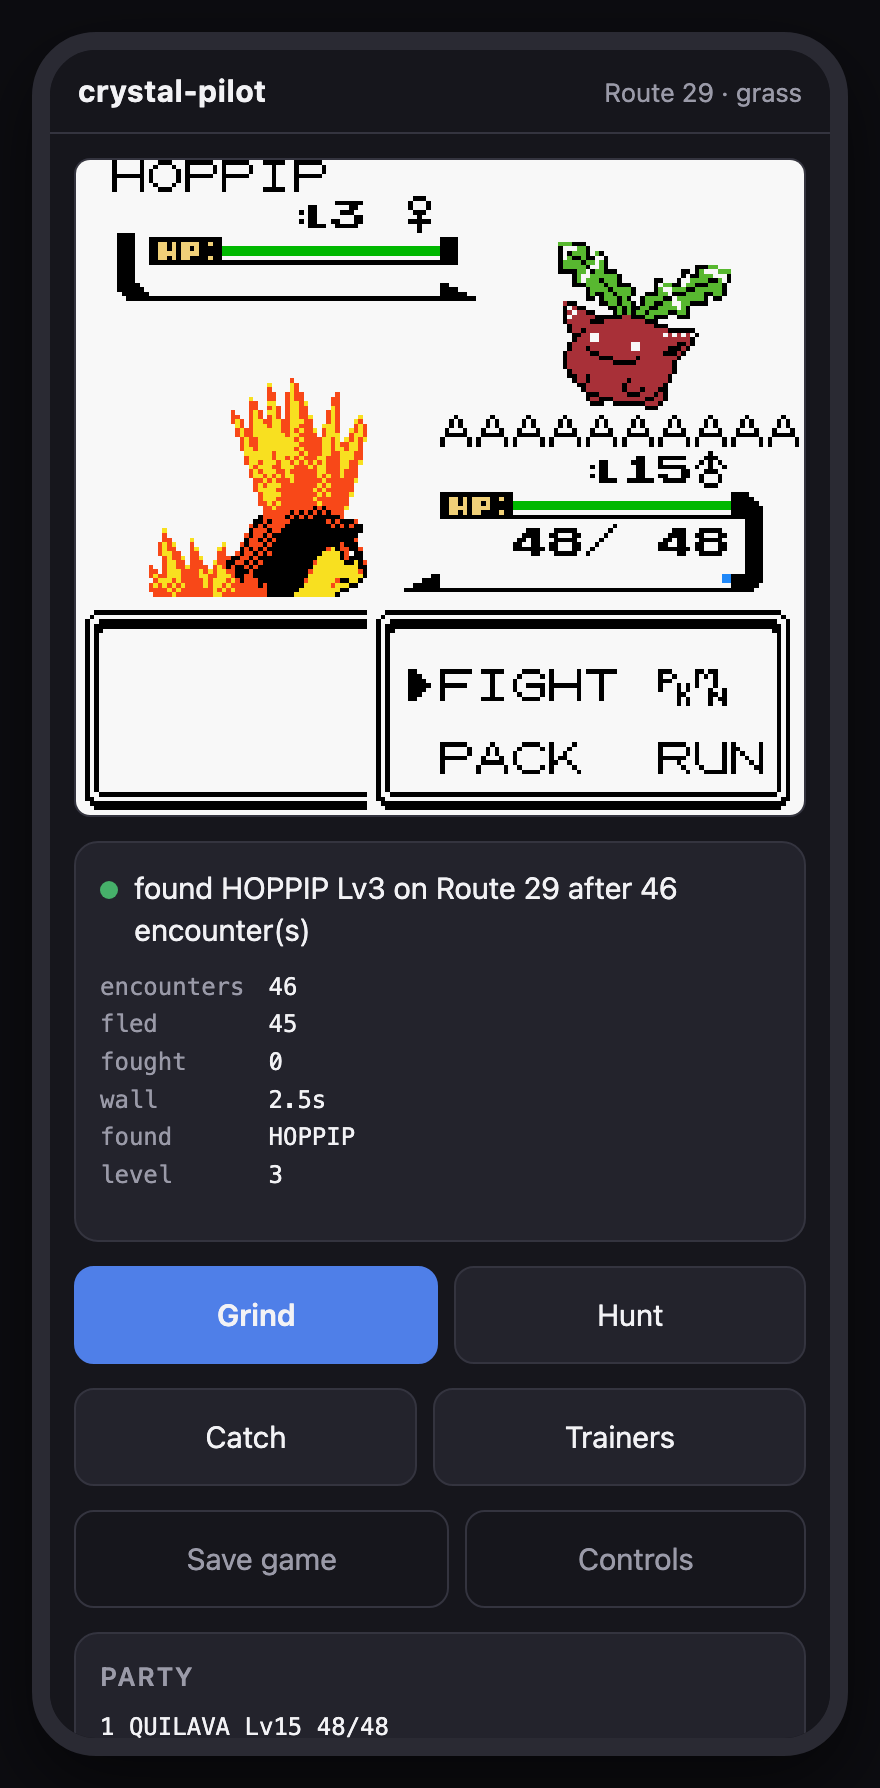
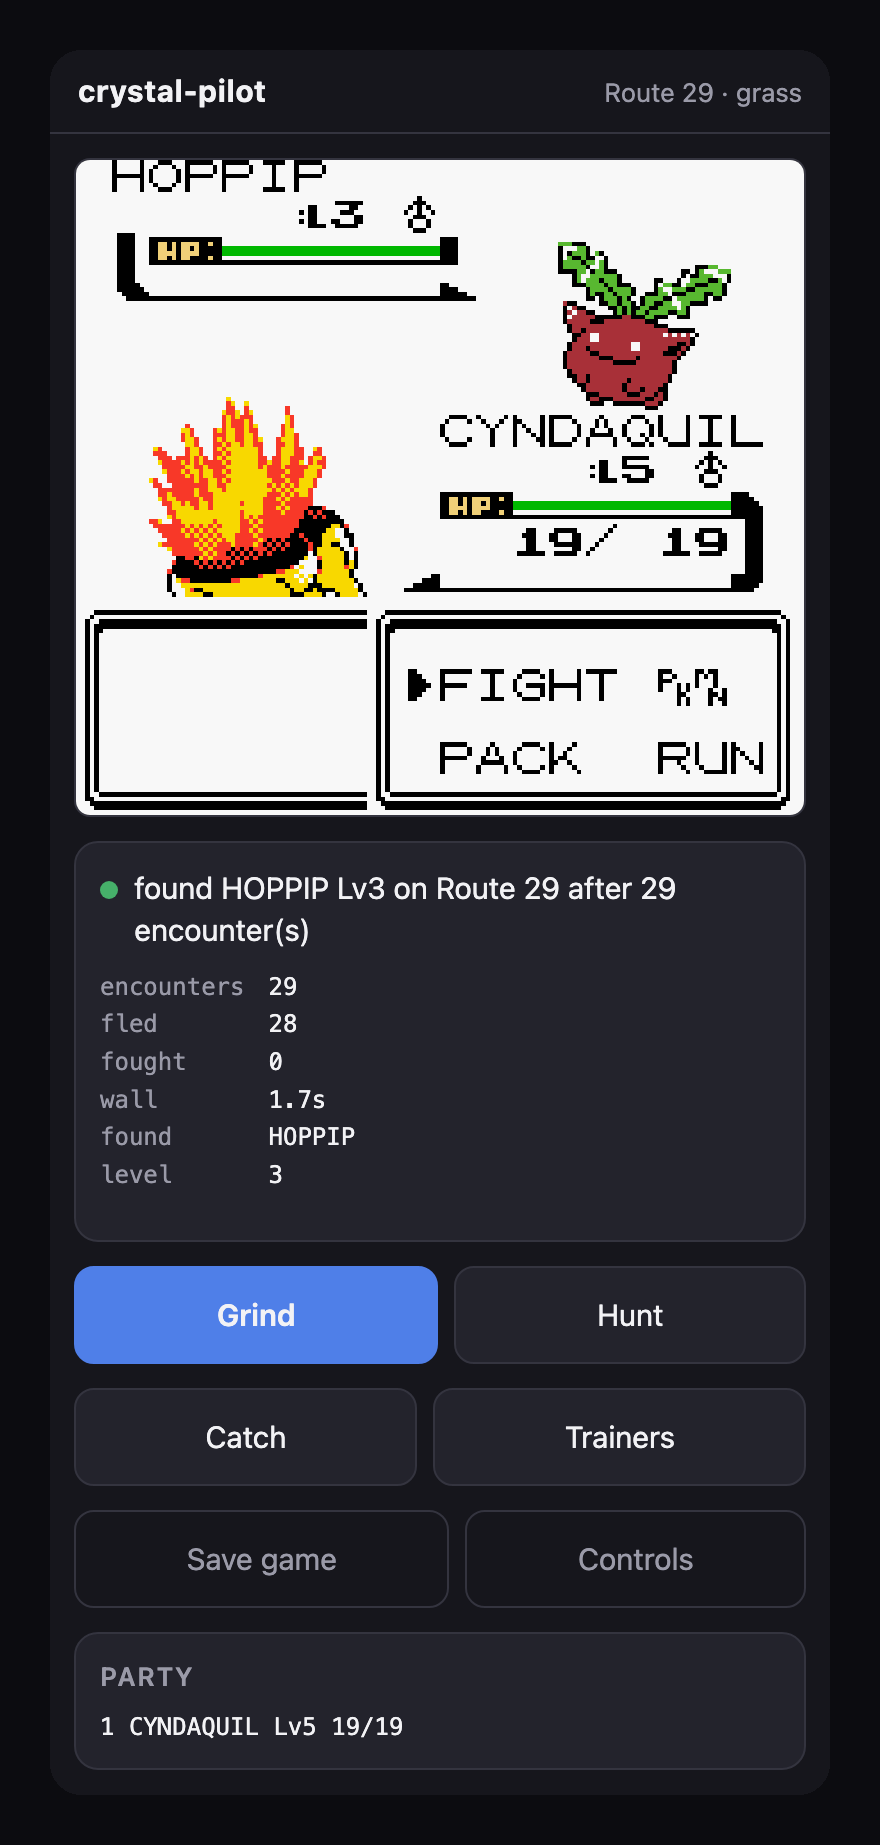
README: new controls screenshot, and retire a stale one
The web UI screenshot showed a party member called AAAAAAAAAAA -- the naming
bug fixed a few commits ago -- so it documented behaviour the code no longer
has. Replaced with a real capture of the same situation the caption describes:
a hunt that has just found a HOPPIP and left the battle live, with the starter
correctly called CYNDAQUIL.

Added a screenshot of the controls themselves, taken by driving the real page
headlessly through a same-origin proxy, so the lit key is LEFT genuinely held
rather than a class added for the photo.

Test numbers were stale: 71 now, 55 of which need a ROM. And the self-check is
8 of 8 after dropping the blind-A-tap mutation, with the reason recorded next to
the list: rebuilding the fixtures moved the RNG out from under it. The guard it
targeted stays; the claim that the suite proves it does not.

diff --git a/tests/selfcheck.py b/tests/selfcheck.py
@@ -18,6 +18,14 @@ ROOT = Path(__file__).resolve().parent.parent
 # (label, file, find, replace, test-filter)
 # `find` must appear exactly once, so a mutation cannot silently no-op after the
 # code it targets has moved on.
+# Not listed: re-introducing the blind A tap in catch's _watch_throw. It was
+# caught until the fixtures were rebuilt, and now no catch test notices it: the
+# bug needs a stray A to land in the frames where the battle menu is up, and
+# with the current fixture's RNG the three throws it takes to catch a SENTRET
+# never line up that way. The guard in _watch_throw stays -- it was verified
+# against the run that produced the bug (reported 2, consumed 3) -- but pretending
+# the suite still proves it would be worse than saying it does not.
+#
 # Not listed: removing the settle from _await_menu_cursor. It used to be the
 # whole defence, but choose_battle_action now re-reads the live cursor and steps
 # toward the target, so dropping the settle self-corrects and no longer
@@ -97,27 +105,6 @@ MUTATIONS = [
         '''                if engaged == "absent":''',
         '''                if engaged == "never":''',
         "absent apart from unreachable",
-    ),
-    (
-        "catch watches a throw by tapping A blindly",
-        "pilot/tasks/catch.py",
-        """        engine = self.search.fight
-        for _ in range(4):
-            what = engine.next_decision()""",
-        """        engine = self.search.fight
-        for _ in range(120):
-            if not self.r.in_battle():
-                self.s.tick(90)
-                return ("caught" if self.r.party_count() > before_party
-                        else "got_away")
-            self.s.clear_events()
-            self.s.tick(6)
-            if self.s.has_event("battle_menu"):
-                return None
-            self.s.tap("a", hold=4, gap=8)
-        for _ in range(0):
-            what = engine.next_decision()""",
-        "balls it spent",
     ),
 ]
 

diff --git a/README.md b/README.md
@@ -254,6 +254,19 @@ to be on the same wifi.
 
 `--token pilot` is worth using if you are typing it: the default is random.
 
+Tap **Controls** for the D-pad. It is laid out like the hardware, and the lit key
+below is LEFT actually being held:
+
+<img src="docs/screenshots/web-controls.png" alt="The web UI's on-screen controls, with LEFT held" width="330">
+
+**Press and hold** a direction to walk. Gen 2 turns you before it walks you, and
+the six frames this used to send were spent entirely on the turn — measured: the
+first press after any change of direction moved you nowhere, and each press after
+that moved exactly one tile. A press now lasts long enough to turn *and* step,
+and while a finger stays down the page asks for another as soon as the last comes
+back. Every press is still a round trip over wifi, so this is for nudging
+yourself out of a corner and taking over a battle, not for playing at speed.
+
 If the page will not load, it is almost always one of three things: the phone is
 on a different network (guest wifi is the classic trap), the router has AP/client
 isolation switched on, or macOS is asking whether to allow incoming connections
@@ -451,14 +464,14 @@ crystal-pilot backups restore --name 20260831-142320-grind-CYNDAQUIL-L25.state
 ## Tests
 
 ```bash
-./run-tests                    # everything (~65s)
+./run-tests                    # everything (~72s)
 ./run-tests -k catch           # just the ones matching a pattern
 ./run-tests -v                 # notes and tracebacks
 ./run-tests --self-check       # prove the suite can actually fail
 ./run-tests --build-fixtures   # regenerate the save states it runs against
 ```
 
-49 tests. Most of them exist because of a specific bug that shipped and was
+71 tests. Most of them exist because of a specific bug that shipped and was
 invisible from the outside — the task still reported success while doing the
 wrong thing. Move selection silently fell back to whatever the menu cursor was
 resting on; fleeing stopped working and fought instead; a catch burned a ball it
@@ -480,15 +493,15 @@ contain game data — so generate them once after building your ROM:
 ./run-tests --build-fixtures
 ```
 
-The badge at the top covers the `data-tests` job. CI has no ROM, so the 50 tests
+The badge at the top covers the `data-tests` job. CI has no ROM, so the 55 tests
 that drive a real emulator skip themselves and the 16 that only read the
 disassembly's data files run: names, move data, map connections, warps, trainers
 and the timeline logic. The runner says so rather than reporting a bare pass:
 
 ```
-16 passed, 50 skipped, 0 failed  (0.1s)
+16 passed, 55 skipped, 0 failed  (0.1s)
   skipped: ROM not found: /home/runner/pokecrystal/pokecrystal.gbc
-  (50 tests need a ROM built from the disassembly)
+  (55 tests need a ROM built from the disassembly)
 ``` Only slow-to-reach situations are
 stored; being *in* a battle or having balls in the bag is set up at test time.
 The runner is deliberately dependency-free — no pytest to install or remember.
@@ -499,17 +512,25 @@ mutation afterwards:
 
 ```
 caught  move choice counts presses instead of reading the cursor
-caught  catch watches a throw by tapping A blindly
+caught  the intro is left to mash A through the NAME menu
+caught  nickname prompts are answered with their default of YES
 caught  collision map reads the wrong quadrant of each block
-7 caught, 0 missed
+8 caught, 0 missed
 ```
 
 It has already earned its keep. Two tests passed mutations they should have
 caught: one only exercised a single battle, when the bug needed a second turn to
 appear, and one walked uniform grass, where reading the wrong quadrant of a
-block gives the right answer anyway. Both are now stronger. A third mutation was
-dropped rather than papered over — the code genuinely self-corrects there now,
-so there was no bug left to catch.
+block gives the right answer anyway. Both are now stronger.
+
+Two mutations have since been dropped rather than papered over, each with the
+reason recorded next to the list. One because the code genuinely self-corrects
+there now, so there was no bug left to catch. The other because rebuilding the
+fixtures moved the RNG out from under it: the bug needs a stray A press to land
+in the exact frames where the battle menu is up, and the current fixture no
+longer lines up that way. The guard it targeted stays in the code — but the
+suite no longer proves it, and saying so is better than a self-check that reads
+green by testing nothing.
 
 ## How it works
 
